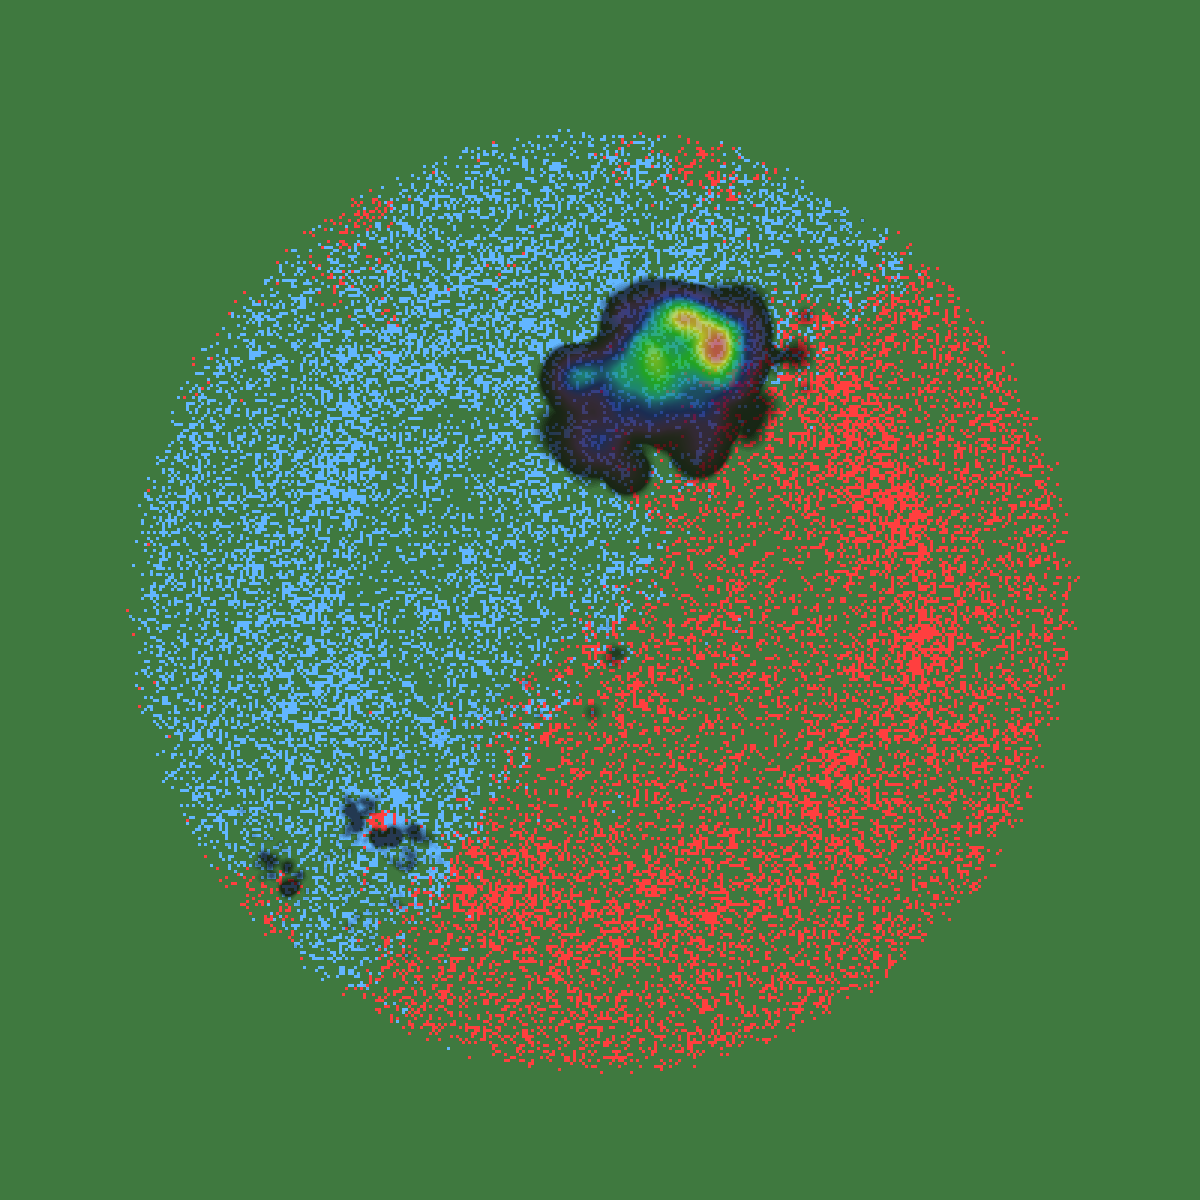
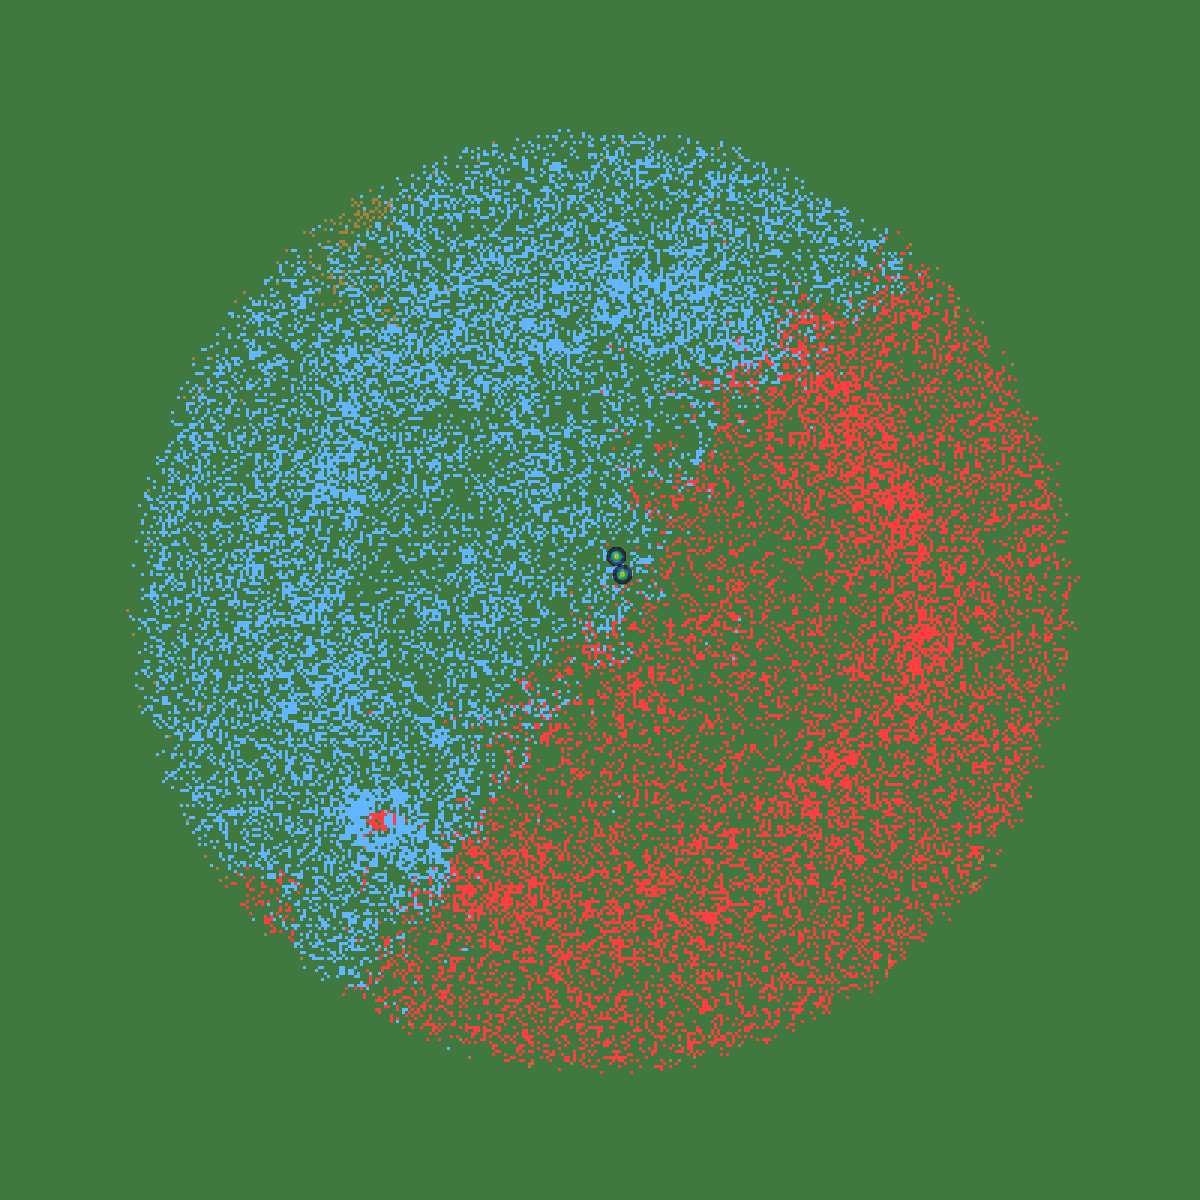
Typo fix
Ally and Enemy split

diff --git a/server/endpoints/models/map.model.js b/server/endpoints/models/map.model.js
@@ -36,9 +36,20 @@ function compileMap() {
         '643', //ALARM
         '152', //RALU
         '882', //PURA
+        '2010', // HAMMER
+        '31' // TWIX
     ];
 
-    var playerList = [];
+    var enemy = [
+        '4', //TSP
+        '733', //CODE
+        '617', //BB
+        '1836' // MM
+    ];
+
+    
+    var allyPlayer = [];
+    var enemyPlayer = [];
 
     // Create Context
     const canvas_map = createCanvas(1200, 1200);
@@ -54,13 +65,17 @@ function compileMap() {
                     data = results.data;
                     
                     data.forEach( player => {
-                        var ally = player[2];
-                        var id = player[0];
+                        
+                        var allyId = player[2];
+                        var playerId = player[0];
+                        
+                        if ( allys.includes(allyId) ){
+                            allyPlayer.push(playerId);
 
-                        if (allys.includes(ally)){
-                            playerList.push(id);
-                        }                        
-                    })
+                        } else if (enemy.includes(allyId)){
+                            enemyPlayer.push(playerId);
+                        }
+                    });
                 }
             });
         });
@@ -83,14 +98,19 @@ function compileMap() {
                             var y = Math.round((village[3] - 300) * 3);
                             var id = village[4];
 
-                            if ( playerList.includes(id)  ) {     
+
+                            if ( allyPlayer.includes(id)  ) {     
                                 ctx.fillStyle ="#2e9eff";
-                            } else {
+
+                            } else if ( enemyPlayer.includes(id)  ) {
                                 ctx.fillStyle ="red";
+
+                            } else {
+                                ctx.fillStyle ="#8a5500";
                             }
                             ctx.fillRect(x,y, 3, 3);   
                             
-                        })
+                        });
                         
                         // Overlay
                         ctx.fillStyle = "rgba(255, 255, 255, 0.25)";
@@ -122,8 +142,8 @@ exports.getMap = (mode) => {
             var intensity = 1;
             res.forEach( inc => {
 
-                // Nobel
-                if (mode == "nobel"){
+                // Noble
+                if (mode == "noble"){
                     if (inc.containsNoble) {
                         incsFiltered.push(inc);
                         intensity=10;
@@ -143,8 +163,8 @@ exports.getMap = (mode) => {
                         intensity = 5;
                     }
 
-                // Fakes
-                } else if (mode == "fakes"){
+                // Small
+                } else if (mode == "small"){
                     if (inc.attackType.includes("small")) {
                         incsFiltered.push(inc);
                     }

diff --git a/userscripte/ds-analyzer.js b/userscripte/ds-analyzer.js
@@ -463,8 +463,6 @@ var param_subtype = getId("subtype");
 var param_village = getId("village");
 var param_view = getId("view");
 
-//console.log(param_screen + " "+ param_mode + " " + param_subtype);
-
 
 if (param_screen == "report" &&
     param_view != null) {
